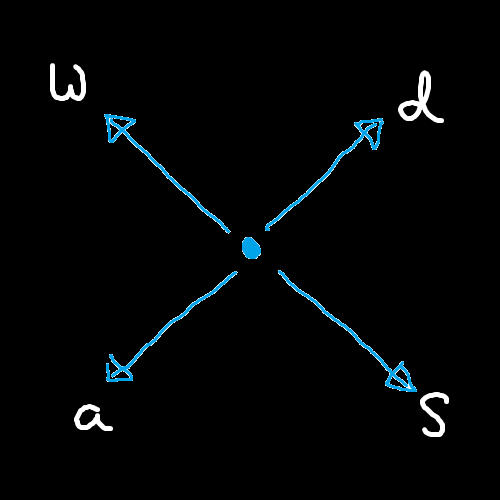
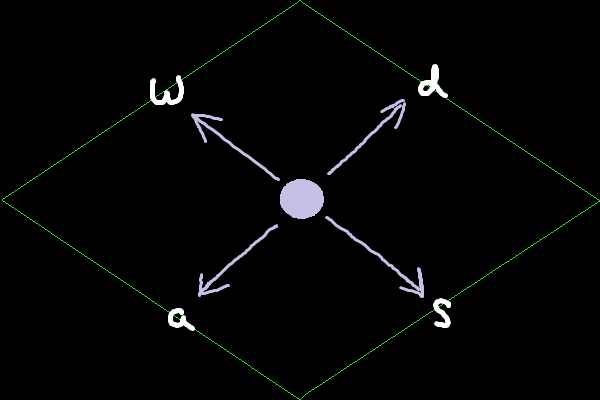
improved controls img

diff --git a/style.css b/style.css
@@ -80,9 +80,10 @@ button:hover {
   position: fixed;
   bottom: 0;
   left: 0;
-  width: 200px;
-  height: 200px;
+  width: 225px;
+  height: 150px;
   background-image: url("controls.png");
   background-color: black;
   background-size: 100%;
+  margin: 20px;
 }
